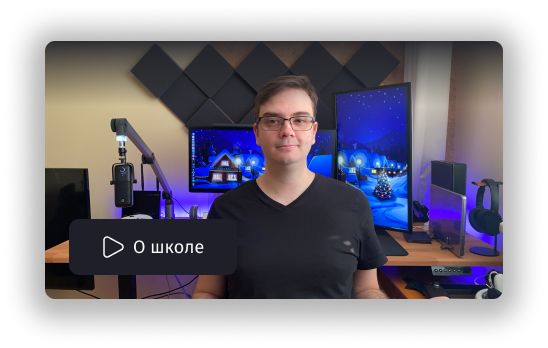
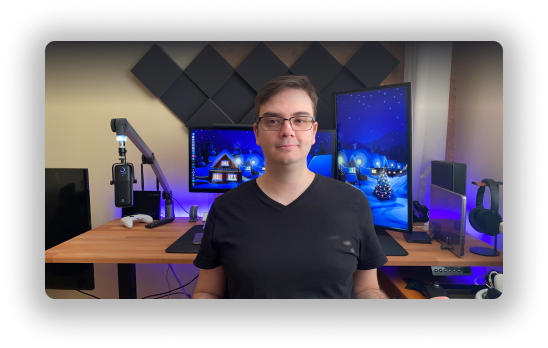
Исправление ошибок

Changed region(s): [[0.1241, 0.6322, 0.4343, 0.8046]]

diff --git a/3-PurpleSchool/index.html b/3-PurpleSchool/index.html
@@ -49,22 +49,28 @@
                         <span class="header__title-gradient-text">Разработке и DevOps</span>
                     </h1>
                 </div>
-                <div>
-                    <div class="hero__control">
-                        <button class="button button_primary">Выбрать курс</button>
-                        <button class="button button_light">О школе</button>
-                    </div>
+                <div class="hero__control">
+                    <button class="button button_primary">Выбрать курс</button>
+                    <button class="button button_light">О школе</button>
                 </div>
             </div>
         </div>
         <div>
-            <div class="hero__video-img"><img src="./images/hero-video.png" alt="Видео"></div>
+            <div class="hero__video-img">
+                <img src="./images/hero-video.png" alt="Видео">
+                <a href="#" class="button button_bg-medium button_icon hero__video-button" title="О школе">
+                    <span class="hero__video-button-icon-play">
+                        <img src="./images/svg/play.svg" alt="">
+                    </span>
+                    О школе
+                </a>
+            </div>
         </div>
     </div>
 </section>
 <section class="section__catalog">
     <div class="wrapper">
-        <div class="blog__header">
+        <div class="blog__header section__catalog-header">
             <div class="title">
                 <div class="title__description">Выбрать курс</div>
                 <h2 class="title__h2">Каталог курсов</h2>
@@ -94,10 +100,10 @@
                         <li class="course-card__tag">Frontend</li>
                     </ul>
                 </div>
-                <footer class="course-card__footer">
+                <div class="course-card__footer">
                     <div class="course-card__price">от 1 890 ₽</div>
                     <button class="button button_primary">Подробнее</button>
-                </footer>
+                </div>
             </div>
             <div class="course-card">
                 <div class="course-card__image">
@@ -115,10 +121,10 @@
                         <li class="course-card__tag">Frontend</li>
                     </ul>
                 </div>
-                <footer class="course-card__footer">
+                <div class="course-card__footer">
                     <div class="course-card__price">от 1 890 ₽</div>
                     <button class="button button_primary">Подробнее</button>
-                </footer>
+                </div>
             </div>
             <div class="course-card">
                 <div class="course-card__image">
@@ -136,10 +142,10 @@
                         <li class="course-card__tag">Frontend</li>
                     </ul>
                 </div>
-                <footer class="course-card__footer">
+                <div class="course-card__footer">
                     <div class="course-card__price">от 1 890 ₽</div>
                     <button class="button button_primary">Подробнее</button>
-                </footer>
+                </div>
             </div>
             <div class="course-card">
                 <div class="course-card__image">
@@ -157,10 +163,10 @@
                         <li class="course-card__tag">Frontend</li>
                     </ul>
                 </div>
-                <footer class="course-card__footer">
+                <div class="course-card__footer">
                     <div class="course-card__price">от 1 890 ₽</div>
                     <button class="button button_primary">Подробнее</button>
-                </footer>
+                </div>
             </div>
             <div class="course-card">
                 <div class="course-card__image">
@@ -178,10 +184,10 @@
                         <li class="course-card__tag">Frontend</li>
                     </ul>
                 </div>
-                <footer class="course-card__footer">
+                <div class="course-card__footer">
                     <div class="course-card__price">от 1 890 ₽</div>
                     <button class="button button_primary">Подробнее</button>
-                </footer>
+                </div>
             </div>
         </div>
     </div>

diff --git a/3-PurpleSchool/styles/page.css b/3-PurpleSchool/styles/page.css
@@ -16,10 +16,31 @@
     gap: 32px;
 }
 
+.hero__video-img {
+    position: relative;
+}
+
 .hero__video-img > img {
     width: 100%;
     height: 100%;
     margin: -40px 0;
+}
+
+.hero__video-button {
+    position: absolute;
+    left: 70px;
+    bottom: 35px;
+}
+
+.hero__video-button-icon-play {
+    display: block;
+    width: 24px;
+    height: 24px;
+}
+
+.hero__video-button-icon-play > img {
+    width: 100%;
+    height: 100%;
 }
 
 .header__title {
@@ -64,6 +85,10 @@
     background-color: var(--color-bg);
 }
 
+.section__catalog-header {
+    margin-bottom: 48px;
+}
+
 .section__blog {
     margin: 100px 0;
     background-color: var(--color-bg);
@@ -84,5 +109,10 @@
 
     .section__blog {
         margin: 32px 0;
+    }
+
+    .hero__video-button {
+        left: 12%;
+        bottom: 11%;
     }
 }

diff --git a/3-PurpleSchool/styles/components.css b/3-PurpleSchool/styles/components.css
@@ -14,6 +14,20 @@
     border: 1px solid var(--color-stroke);
 }
 
+.button_icon {
+    display: inline-flex;
+    align-items: center;
+    gap: 10px;
+}
+
+.button_bg-medium {
+    background-color: var(--color-bg-medium);
+}
+
+.button_bg-medium:hover {
+    background-color: var(--color-bg-light);
+}
+
 .button_light:hover {
     background-color: var(--color-bg-light);
 }
@@ -183,7 +197,6 @@
     display: flex;
     flex-direction: column;
     gap: 32px;
-    margin-bottom: 48px;
 }
 
 .blog-items {
